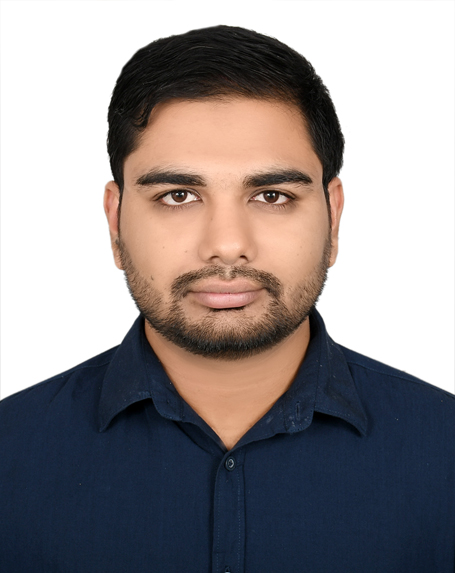
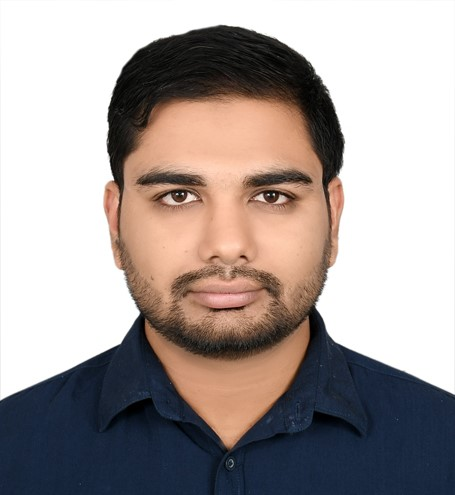
fix profile photo and backgrounf

diff --git a/content/_index.md b/content/_index.md
@@ -24,7 +24,7 @@ sections:
         color: black
         image:
           # Add your image background to `assets/media/`.
-          filename: stacked-peaks.svg
+          filename: endless-constellation.svg
           filters:
             brightness: 1.0
           size: cover
